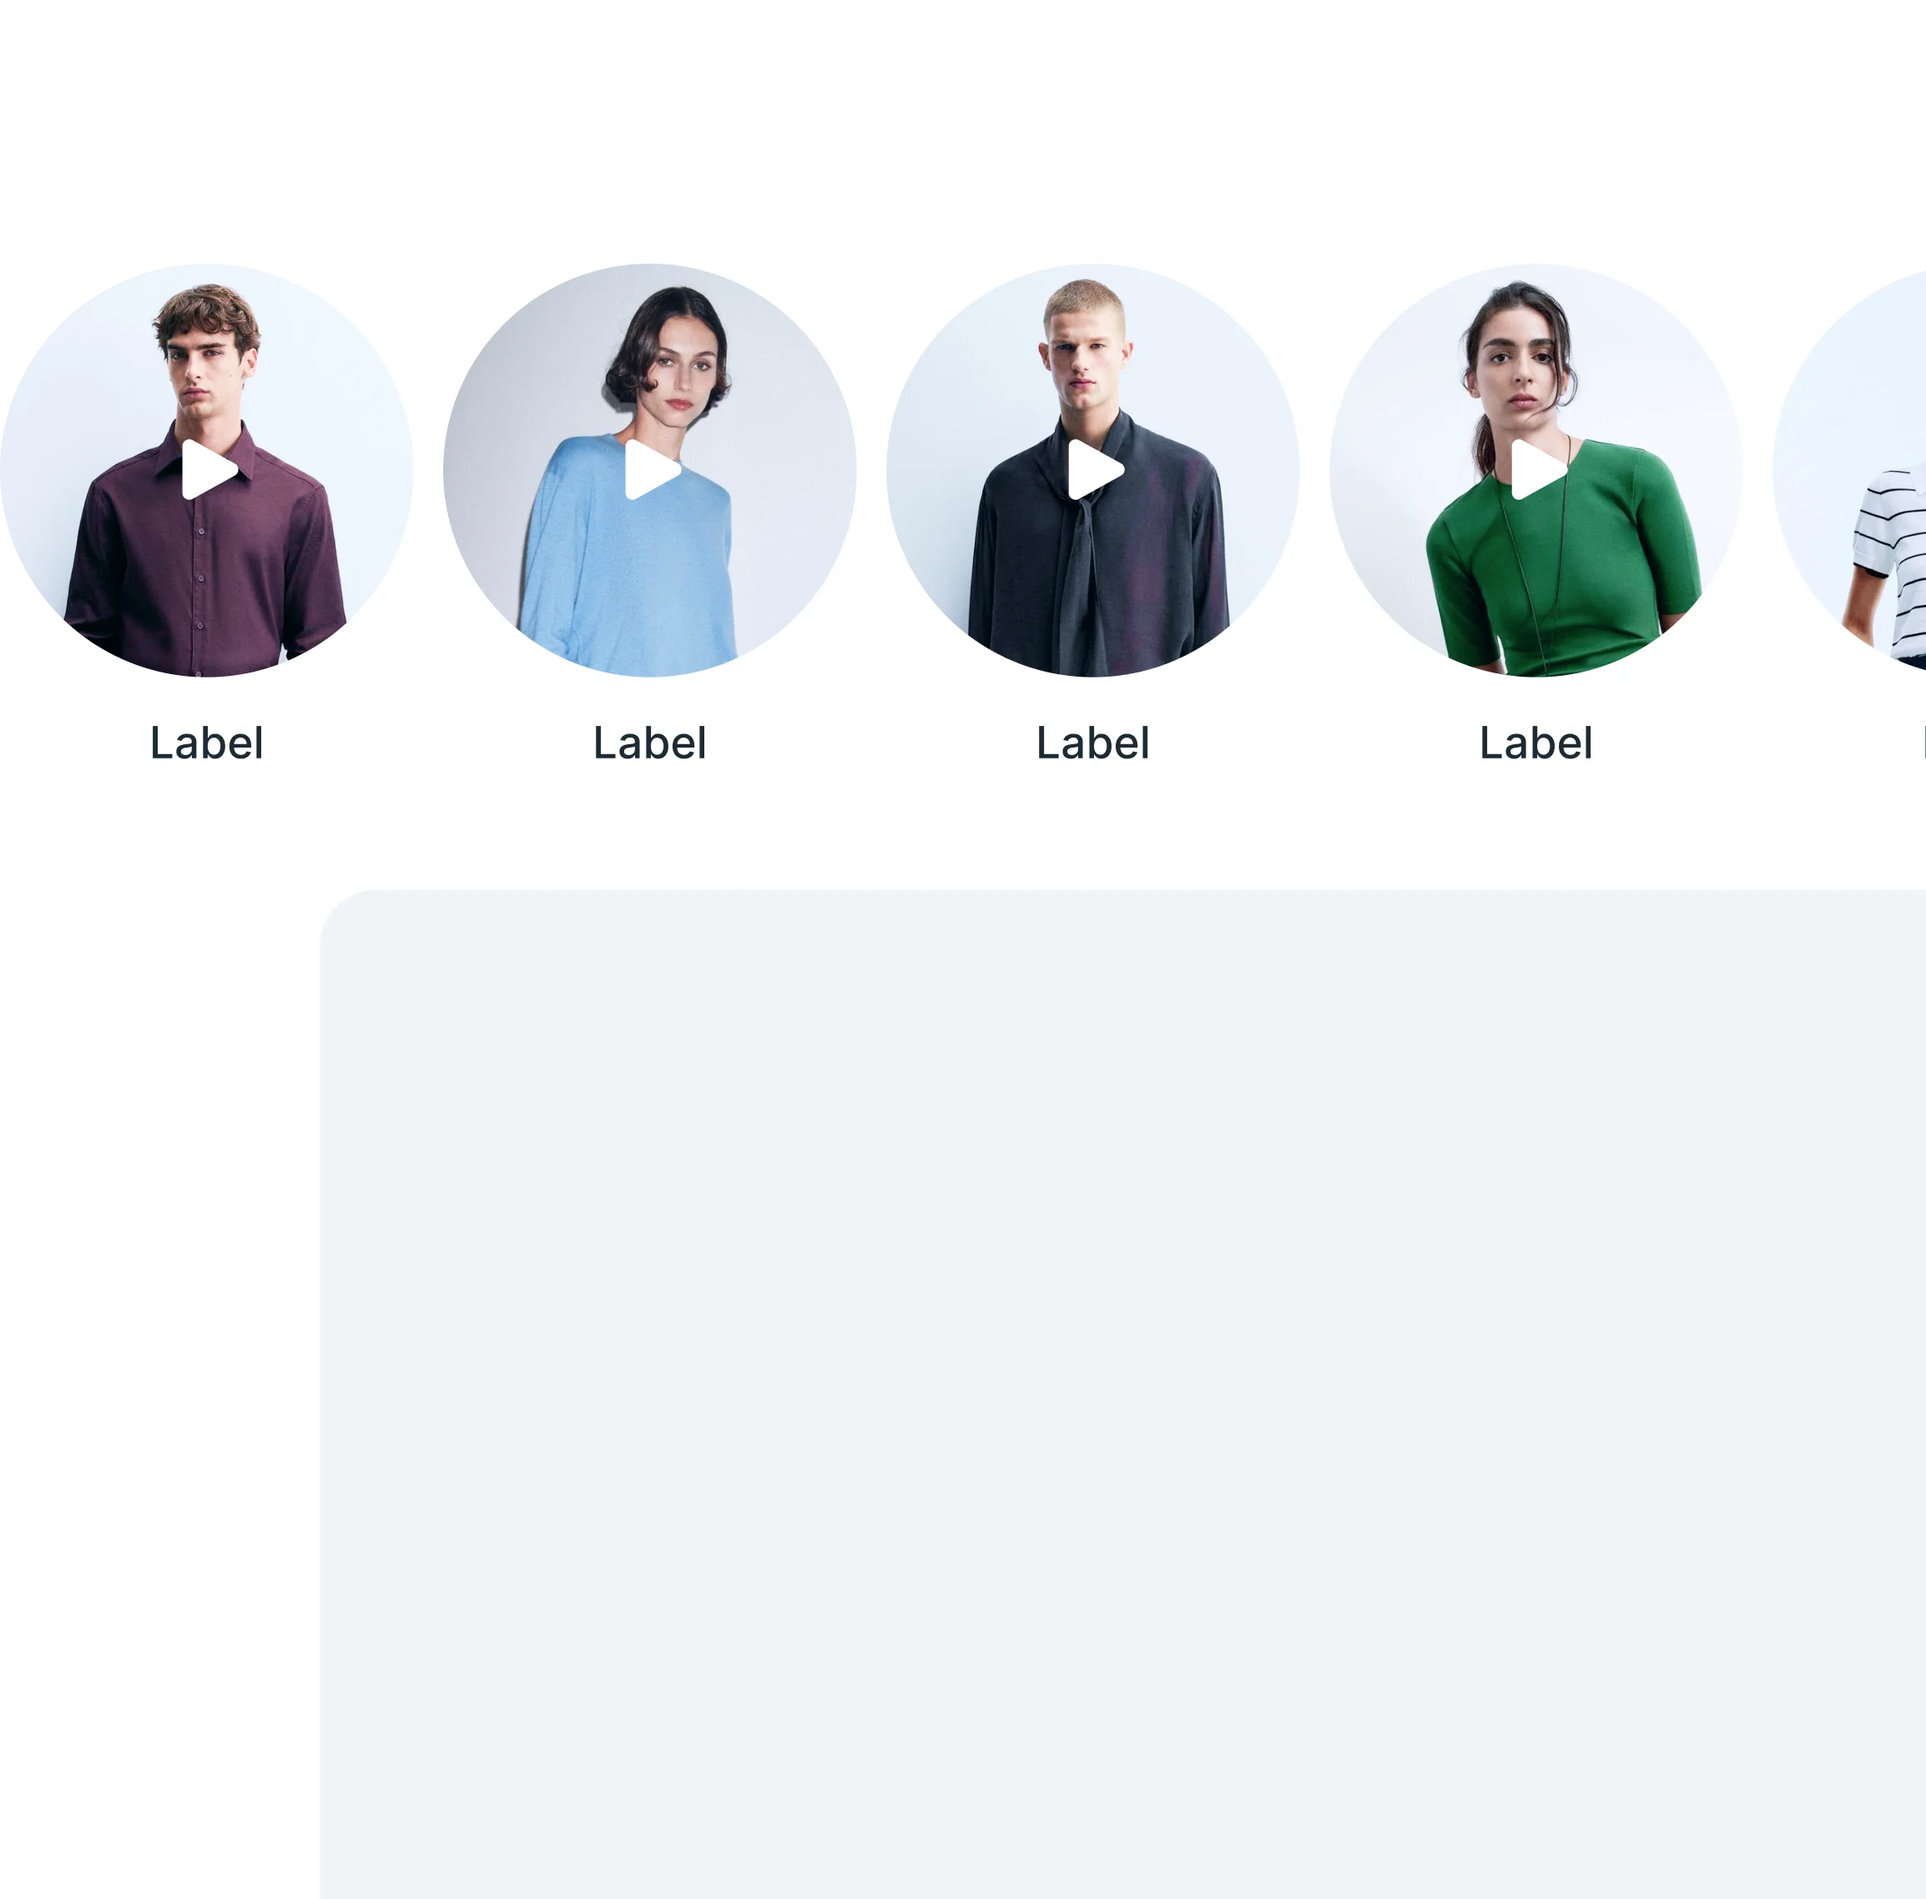
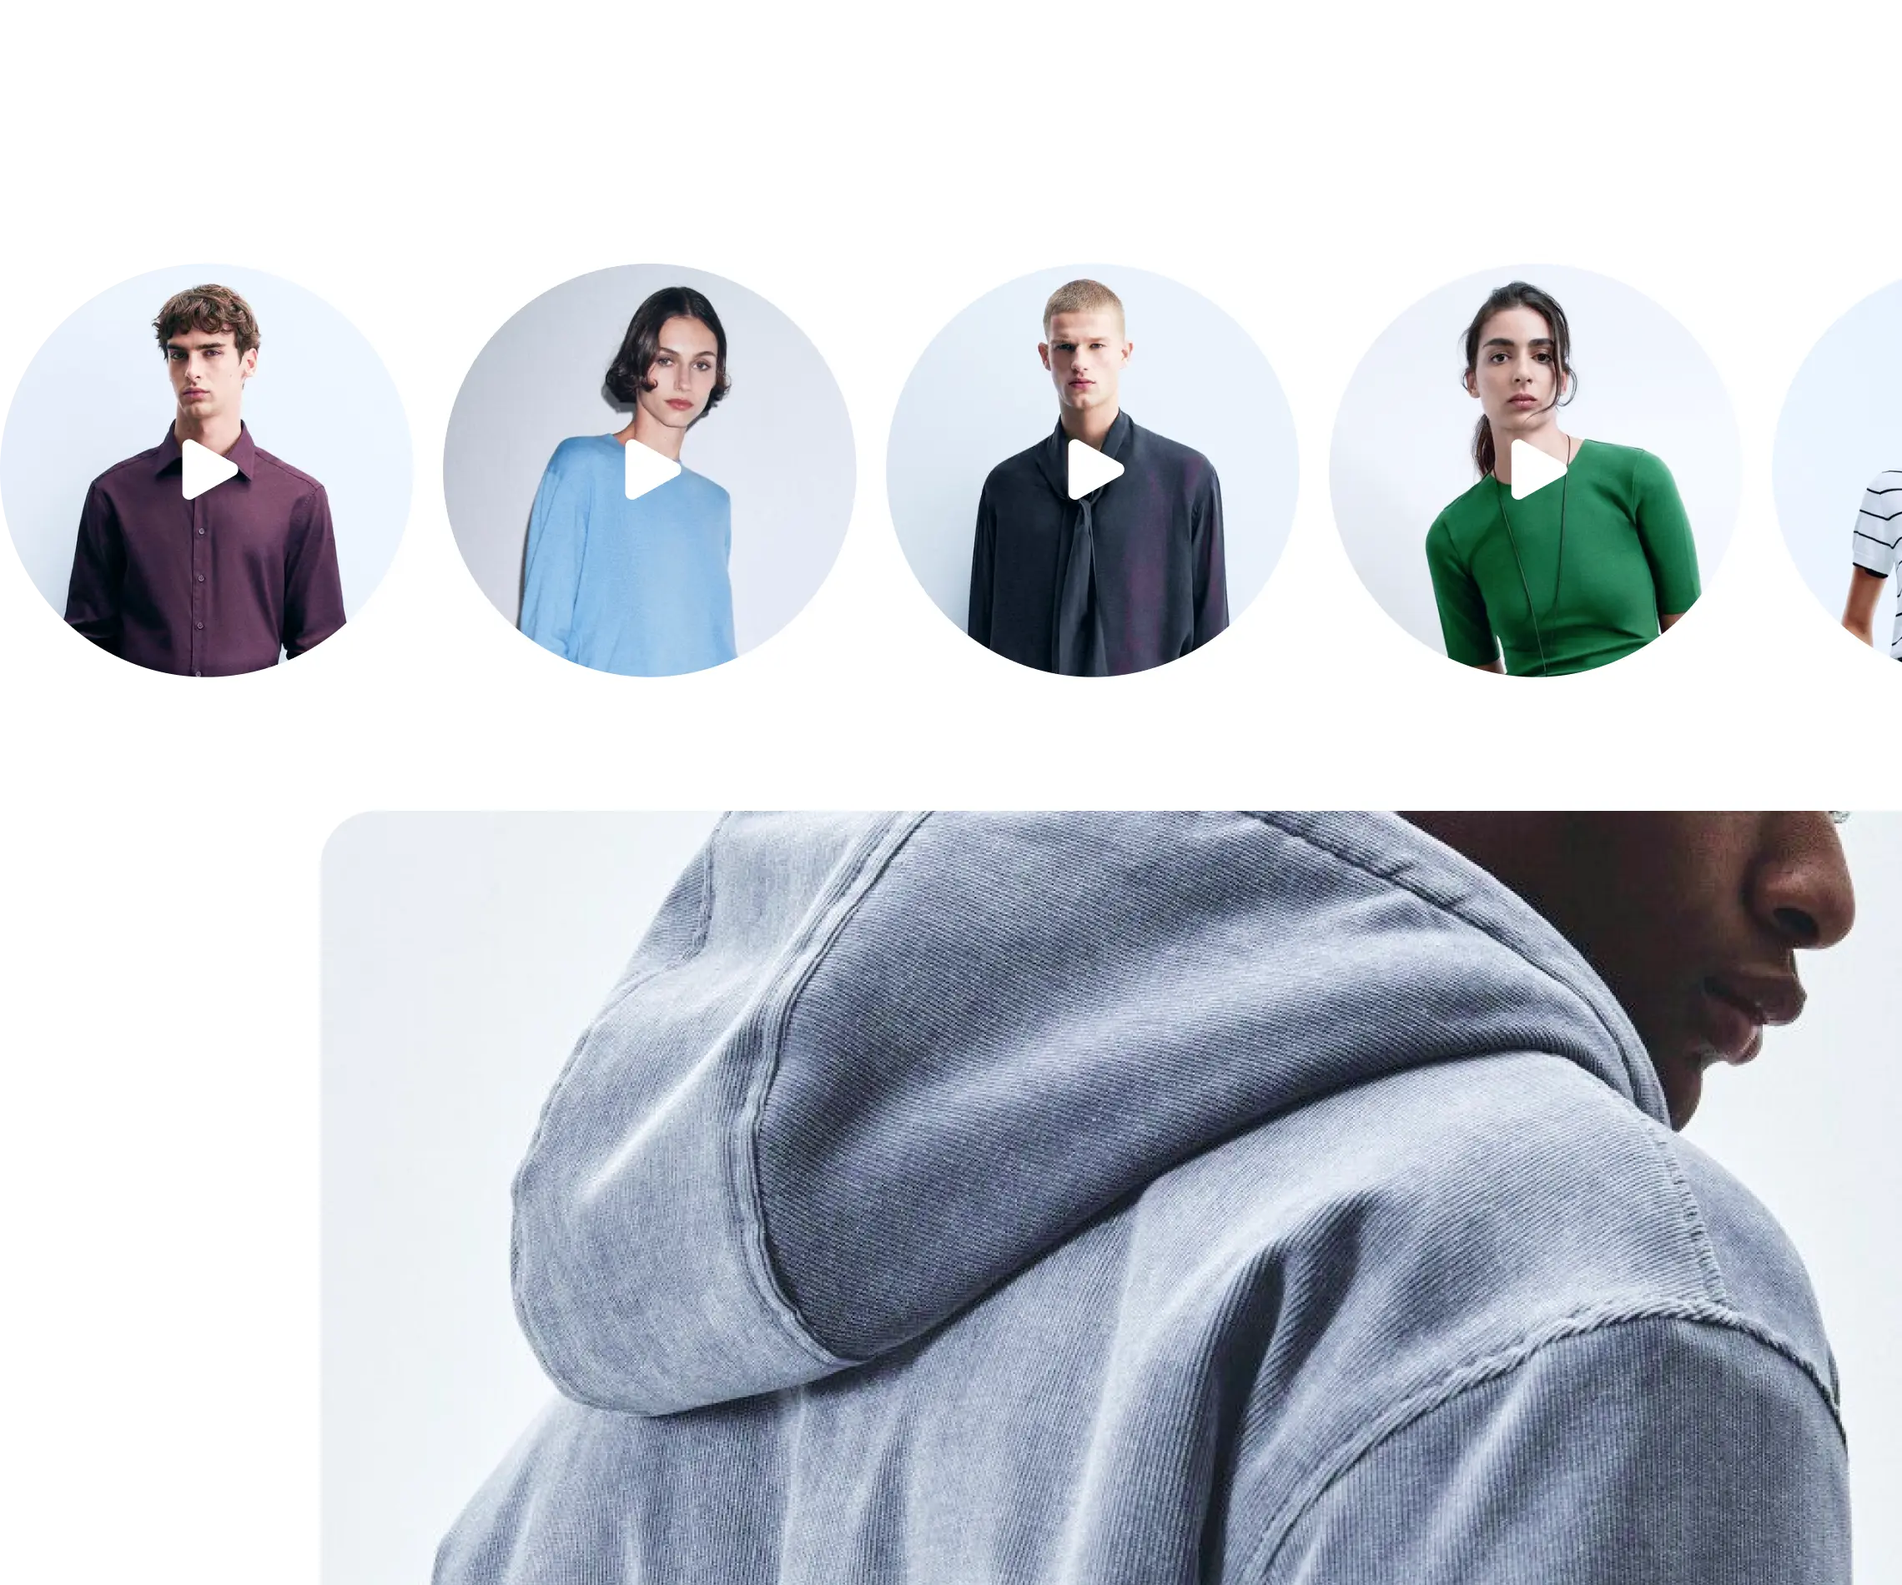
Update demo images and modify contact sections for improved user engagement
- Replaced SVG components with updated image assets for demo sections, enhancing visual appeal.
- Updated the title and description in the ContactSection to better reflect user onboarding.
- Adjusted call-to-action labels in ConnectSection for clarity and engagement.

diff --git a/src/app/(main)/demo/page.tsx b/src/app/(main)/demo/page.tsx
@@ -1,22 +1,6 @@
 'use client';
 
 import ConnectSection from "@/components/common/ConnectSection";
-import NewArrivalsSvg from "@/components/svg/NewArrivalsSvg";
-import NewArrivalsSvgSm from "@/components/svg/NewArrivalsSvgSm";
-import NextBestBuySvg from "@/components/svg/NextBestBuySvg";
-import NextBestBuySvgSm from "@/components/svg/NextBestBuySvgSm";
-import SeeItInActionSvg from "@/components/svg/SeeItInActionSvg";
-import SeeItInActionSvgSm from "@/components/svg/SeeItInActionSvgSm";
-import TrendingSvg from "@/components/svg/TrendingSvg";
-import TrendingSvgSm from "@/components/svg/TrendingSvgSm";
-import UgcSvg from "@/components/svg/UgcSvg";
-import UgcSvgSm from "@/components/svg/UgcSvgSm";
-import UserReviewSvg from "@/components/svg/UserReviewSvg";
-import UserReviewSvgSm from "@/components/svg/UserReviewSvgSm";
-import WebsiteExplainerSvg from "@/components/svg/WebsiteExplainerSvg";
-import WebsiteExplainerSvgSm from "@/components/svg/WebsiteExplainerSvgSm";
-import WebsiteHeroSvg from "@/components/svg/WebsiteHeroSvg";
-import WebsiteHeroSvgSm from "@/components/svg/WebsiteHeroSvgSm";
 import { Text } from "@/components/ui/text";
 import useWindowSize from "@/hooks/useWindowSize";
 import { motion } from "motion/react";
@@ -31,65 +15,11 @@ const DemoPage = () => {
 
   const demoCards = [
     {
-      title: "New Arrivals",
-      description: <>
-        Show your freshest products in a swipeable <br className="hidden md:block" /> feed so visitors always see what&apos;s new first.
-      </>,
-      SvgComponent: isMobile ? NewArrivalsSvgSm : NewArrivalsSvg,
-      link: "/demo/new-arrivals",
-      buttonText: "View demo",
-    },
-    {
-      title: "Trending",
-      description: <>
-        Surface what&apos;s hot right now so shoppers <br className="hidden md:block" /> follow social proof and move faster.
-      </>,
-      SvgComponent: isMobile ? TrendingSvgSm : TrendingSvg,
-      link: "/demo/trending",
-      buttonText: "View demo",
-    },
-    {
-      title: "See It in Action",
-      description: <>
-        Show the product in real use cases so <br className="hidden md:block" /> customers can visualize ownership.
-      </>,
-      SvgComponent: isMobile ? SeeItInActionSvgSm : SeeItInActionSvg,
-      link: "/demo/see-it-in-action",
-      buttonText: "View demo",
-    },
-    {
-      title: "User Review",
-      description: <>
-        Turn real customer videos into a proof wall <br className="hidden md:block" /> so visitors trust you more and hesitate less.
-      </>,
-      SvgComponent: isMobile ? UserReviewSvgSm : UserReviewSvg,
-      link: "/demo/user-review",
-      buttonText: "View demo",
-    },
-    {
-      title: "Next Best Buy",
-      description: <>
-        Recommend the next logical product so <br className="hidden md:block" /> you quietly increase AOV.
-      </>,
-      SvgComponent: isMobile ? NextBestBuySvgSm : NextBestBuySvg,
-      link: "/demo/next-best-buy",
-      buttonText: "View demo",
-    },
-    {
-      title: "UGC",
-      description: <>
-        Highlight content from your customers and <br className="hidden md:block" /> fans so your brand feels alive.
-      </>,
-      SvgComponent: isMobile ? UgcSvgSm : UgcSvg,
-      link: "/demo/ugc",
-      buttonText: "View demo",
-    },
-    {
       title: "Website Hero",
       description: <>
         Hook visitors with bold, snackable clips that <br className="hidden md:block" /> instantly show why your product matters.
       </>,
-      SvgComponent: isMobile ? WebsiteHeroSvgSm : WebsiteHeroSvg,
+      imageUrl: "/assets/images/demo/website-hero.webp",
       link: "/demo/website-hero",
       buttonText: "View demo",
     },
@@ -98,8 +28,62 @@ const DemoPage = () => {
       description: <>
         Walk visitors through how it works in quick, <br className="hidden md:block" /> swipeable steps so they &quot;get it&quot; in seconds.
       </>,
-      SvgComponent: isMobile ? WebsiteExplainerSvgSm : WebsiteExplainerSvg,
+      imageUrl: "/assets/images/demo/website-explainer.webp",
       link: "/demo/website-explainer",
+      buttonText: "View demo",
+    },
+    {
+      title: "New Arrivals",
+      description: <>
+        Show your freshest products in a swipeable <br className="hidden md:block" /> feed so visitors always see what&apos;s new first.
+      </>,
+      imageUrl: "/assets/images/demo/new-arrivals.webp",
+      link: "/demo/new-arrivals",
+      buttonText: "View demo",
+    },
+    {
+      title: "Trending",
+      description: <>
+        Surface what&apos;s hot right now so shoppers <br className="hidden md:block" /> follow social proof and move faster.
+      </>,
+      imageUrl: "/assets/images/demo/trending.webp",
+      link: "/demo/trending",
+      buttonText: "View demo",
+    },
+    {
+      title: "See It in Action",
+      description: <>
+        Show the product in real use cases so <br className="hidden md:block" /> customers can visualize ownership.
+      </>,
+      imageUrl: "/assets/images/demo/see-it-in-action.webp",
+      link: "/demo/see-it-in-action",
+      buttonText: "View demo",
+    },
+    {
+      title: "User Review",
+      description: <>
+        Turn real customer videos into a proof wall <br className="hidden md:block" /> so visitors trust you more and hesitate less.
+      </>,
+      imageUrl: "/assets/images/demo/user-review.webp",
+      link: "/demo/user-review",
+      buttonText: "View demo",
+    },
+    {
+      title: "Next Best Buy",
+      description: <>
+        Recommend the next logical product so <br className="hidden md:block" /> you quietly increase AOV.
+      </>,
+      imageUrl: "/assets/images/demo/next-best-buy.webp",
+      link: "/demo/next-best-buy",
+      buttonText: "View demo",
+    },
+    {
+      title: "UGC",
+      description: <>
+        Highlight content from your customers and <br className="hidden md:block" /> fans so your brand feels alive.
+      </>,
+      imageUrl: "/assets/images/demo/ugc.webp",
+      link: "/demo/ugc",
       buttonText: "View demo",
     },
   ];
@@ -140,7 +124,7 @@ const DemoPage = () => {
           {demoCards.map((card, i) => (
             <DemoCard
               key={card.title}
-              SvgComponent={card.SvgComponent}
+              imageUrl={card.imageUrl}
               title={card.title}
               description={card.description}
               link={card.link}
@@ -151,21 +135,8 @@ const DemoPage = () => {
       </motion.section>
 
       <ConnectSection
-        title="Don’t see the use case you need?"
-        description={<>Contact us and we{"’"}ll put together a <br /> custom demo for your brand.</>}
-        cta={{
-          primary: {
-            label: "Start for free",
-            href: "https://app.horizonexp.com/signup",
-            target: "_blank",
-            variant: "default",
-          },
-          secondary: {
-            label: "Contact us",
-            href: "/contact",
-            variant: "secondary",
-          },
-        }}
+        title="Start with any layout. Go live in minutes."
+        description={<>Pick a layout. Paste the snippet on your site/app. You’re live.</>}
       />
 
     </main>

diff --git a/src/components/common/ConnectSection.tsx b/src/components/common/ConnectSection.tsx
@@ -13,12 +13,14 @@ type Props = {
       href: string;
       target?: string;
       variant?: ButtonVariant;
+      visible?: boolean;
     };
     secondary?: {
       label: string;
       href: string;
       target?: string;
       variant?: ButtonVariant;
+      visible?: boolean;
     };
   };
 }
@@ -29,12 +31,14 @@ const defaultCta = {
     href: "https://app.horizonexp.com/signup",
     target: "_blank",
     variant: "default",
+    visible: true,
   },
   secondary: {
     label: "Book a demo",
     href: "/contact",
     target: undefined,
     variant: "secondary",
+    visible: true,
   },
 };
 
@@ -64,17 +68,21 @@ const ConnectSection = ({ title, description, cta = defaultCta as Props["cta"] }
         transition={{ duration: 0.5, delay: 0.2 }}
         className="flex items-center justify-center gap-4"
       >
-        <Button variant={primary.variant as ButtonVariant} asChild>
-          <Link href={primary.href} target={primary.target as string}>
-            {primary.label}
-          </Link>
-        </Button>
+        {primary.visible && (
+          <Button variant={primary.variant as ButtonVariant} asChild>
+            <Link href={primary.href} target={primary.target as string}>
+              {primary.label}
+            </Link>
+          </Button>
+        )}
 
-        <Button variant={secondary.variant as ButtonVariant} asChild>
-          <Link href={secondary.href} target={secondary.target as string}>
-            {secondary.label}
-          </Link>
-        </Button>
+        {secondary.visible && (
+          <Button variant={secondary.variant as ButtonVariant} asChild>
+            <Link href={secondary.href} target={secondary.target as string}>
+              {secondary.label}
+            </Link>
+          </Button>
+        )}
       </motion.div>
     </section>
   );

diff --git a/src/app/(main)/pricing/components/ForEnterpriseSection.tsx b/src/app/(main)/pricing/components/ForEnterpriseSection.tsx
@@ -10,17 +10,17 @@ const ForEnterpriseSection = () => {
         <SectionHeader
           className="text-center lg:text-left flex flex-col items-center lg:items-start justify-center"
           topLabel="For Enterprise"
-          title={<>Ready to scale <br /> beyond limits?</>}
+          title={<>Need higher <br /> limits?</>}
           description={<>
-            For brands with larger audiences, Horizon offers custom enterprise pricing tailored to your traffic, integrations, and performance needs.
+            For brands with larger audiences, Horizon offers custom enterprise pricing tailored to your traffic and performance needs.
             <br />
             <br />
-            Get dedicated support, advanced analytics, and infrastructure engineered to handle enterprise scale effortlessly.
+            Get dedicated support, customizations, and infrastructure designed to handle enterprise scale effortlessly.
           </>}
           extraContent={
             <Button asChild className='lg:inline-flex hidden mt-10'>
               <Link href="/contact">
-                Contact us
+                Contact sales
               </Link>
             </Button>
           }

diff --git a/src/app/(main)/contact/page.tsx b/src/app/(main)/contact/page.tsx
@@ -59,19 +59,21 @@ const ContactPage = () => {
         <ContactSection />
 
         <ConnectSection
-          title={<>Your next growth <br /> chapter starts here.</>}
-          description={<>Reach out, our team will help you find the <br /> perfect Horizon setup for your goals.</>}
+          title={<>Start free. <br /> Go live in minutes.</>}
+          description={<>Try Horizon on your own - or reach out if you want help.</>}
           cta={{
             primary: {
               label: "Start for free",
               href: "https://app.horizonexp.com/signup",
               target: "_blank",
               variant: "default",
+              visible: true,
             },
             secondary: {
-              label: "Contact us",
+              label: "Book a demo",
               href: "/contact",
               variant: "secondary",
+              visible: false,
             },
           }}
         />

diff --git a/src/app/(main)/pricing/page.tsx b/src/app/(main)/pricing/page.tsx
@@ -117,21 +117,8 @@ const PricingPage = () => {
         <ForEnterpriseSection />
 
         <ConnectSection
-          title={<>Launch your next growth story <br /> Start today</>}
-          description="Pick a plan, plug in Horizon, and start engaging customers in minutes."
-          cta={{
-            primary: {
-              label: "Start for free",
-              href: "https://app.horizonexp.com/signup",
-              target: "_blank",
-              variant: "default",
-            },
-            secondary: {
-              label: "Contact us",
-              href: "/contact",
-              variant: "secondary",
-            },
-          }}
+          title={<>Start free. <br /> Launch shoppable video today.</>}
+          description="Pick a plan, paste the snippet, and go live in minutes."
         />
       </main>
     </>

diff --git a/src/app/(main)/pricing/components/PricingSection.tsx b/src/app/(main)/pricing/components/PricingSection.tsx
@@ -14,7 +14,7 @@ const PricingSection = () => {
         transition={{ duration: 0.8 }}
       >
         <Text variant="heading" className="text-center">
-          Short-form engagement <br /> for every business
+          Plans for every stage
         </Text>
       </motion.div>
 
@@ -24,7 +24,7 @@ const PricingSection = () => {
         transition={{ duration: 0.5, delay: 0.2 }}
       >
         <Text variant="section-subheading" className="text-center pt-8 pb-[100px]">
-          Whether you&apos;re just starting out or serving millions, Horizon makes <br className="hidden md:block" /> short-form engagement effortless to launch, manage, and scale.
+          Start free. Launch fast. Upgrade as you grow.
         </Text>
       </motion.div>
 
